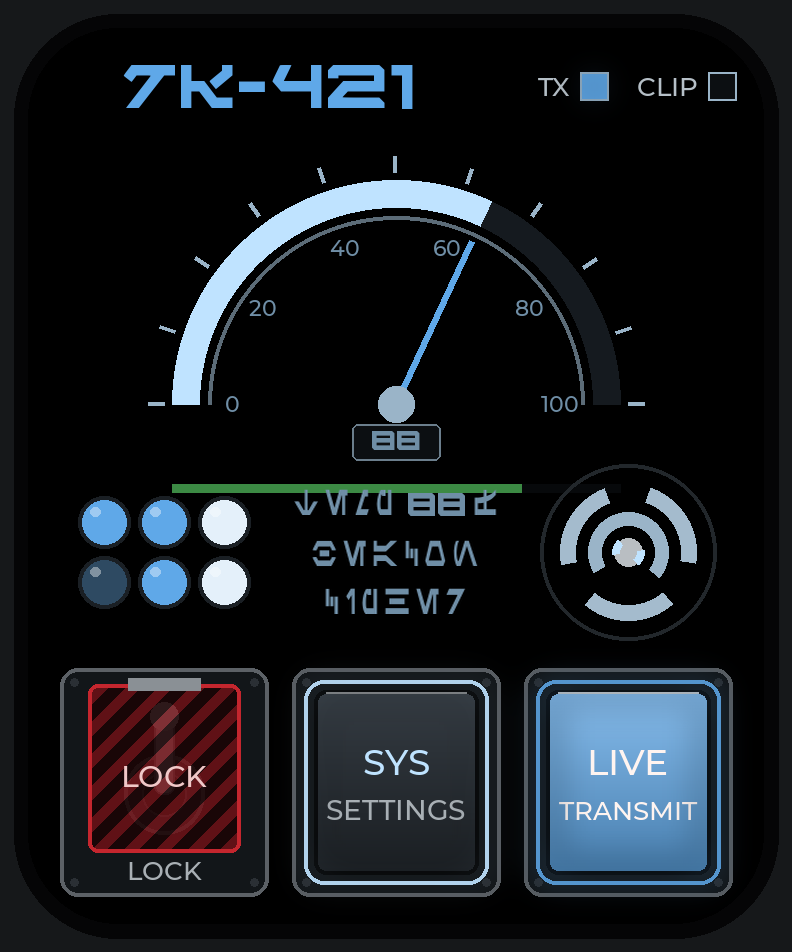
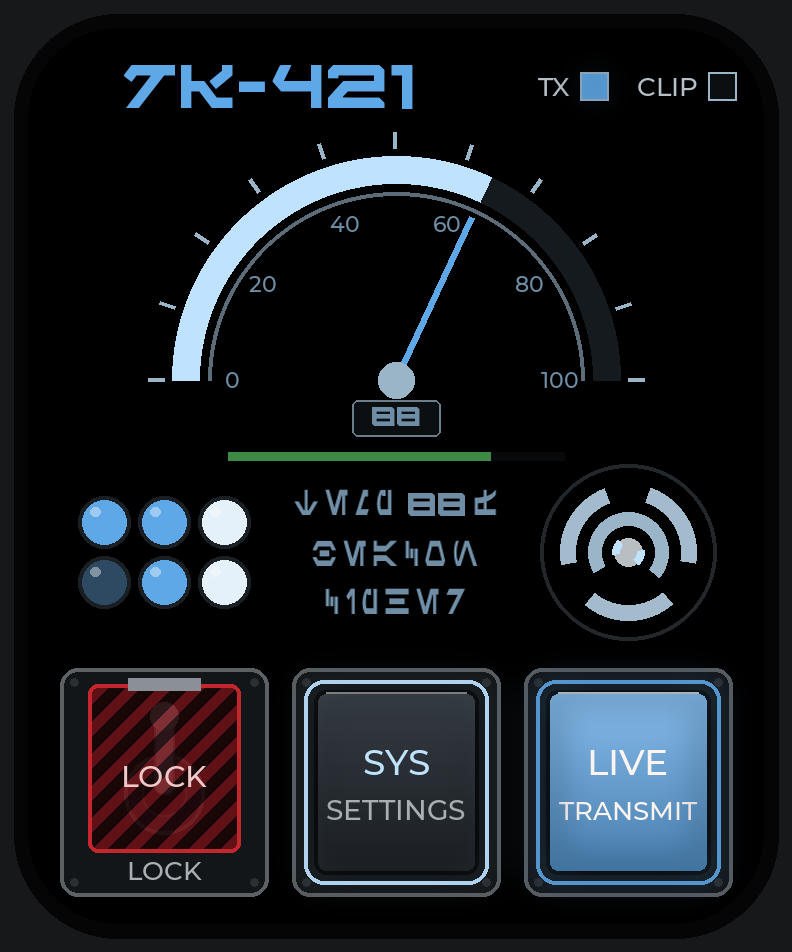
Skin concepts 22-36: give the battery bar clear space; raise Lava Forge side strips
Claude-Session: https://claude.ai/code/session_014PmTqdRFYRCH22NdKcRT7c

Changed region(s): [[0.1818, 0.1523, 0.8182, 0.5179]]

diff --git a/design/skins/concepts/make_concepts2.py b/design/skins/concepts/make_concepts2.py
@@ -193,8 +193,8 @@ def small_temp(sc, x, y, text, p, anchor="mm", size=13, font=None):
 
 # ---------------- the 15 concepts ----------------
 def c22(sc, p, t):          # Snow Patrol: big gauge hero
-    big_gauge(sc, 184, 188, 112, p, 64, plate="88")
-    mc.batt_h(sc, 72, 296, 228, h=4)
+    big_gauge(sc, 184, 176, 112, p, 64, plate="88")
+    mc.batt_h(sc, 100, 268, 212, h=4)
     mc.lamps_domes(sc, 68, 262, p, 22, cols=3, rows=2)
     mc.readout(sc, 184, 262, p, 22, lines=3, pitch=24)
     mc.rotor_scomp(sc, 300, 262, p, t, r=38)
@@ -213,7 +213,7 @@ def c23(sc, p, t):          # Desert Outpost: dual scopes + full-width segment m
 def c24(sc, p, t):          # Forest Scout: tall scope left, bar graph right
     vscope(sc, 18, 62, 110, 298, p, t, label=None)
     bargraph(sc, 132, 62, 350, 176, p, n=14, seed=24, label="88")      # temp as the graph's scale tag
-    mc.batt_v(sc, 122, 62, 298, w=4)
+    mc.batt_v(sc, 119, 62, 298, w=4)
     mc.lamps_matrix(sc, 184, 250, p, 24)
     mc.rotor_radar(sc, 300, 250, p, t, r=44)
 
@@ -227,11 +227,11 @@ def c25(sc, p, t):          # Dark Ops: waterfall
 
 
 def c26(sc, p, t):          # Lava Forge: ring meter round a big rotor, edge lamp strips
-    edge_strip(sc, 18, 64, 230, p, 26)
-    edge_strip(sc, 340, 64, 230, p, 27)
+    edge_strip(sc, 18, 60, 206, p, 26)
+    edge_strip(sc, 340, 60, 206, p, 27)
     ring_meter(sc, 184, 148, 84, p, 66, w=8)
     mc.rotor_gear(sc, 184, 148, p, t, r=66)
-    mc.batt_v(sc, 32, 64, 230, w=6)
+    mc.batt_v(sc, 36, 60, 206, w=4)
     mc.lamps_diamonds(sc, 68, 268, p, 26)
     mc.readout(sc, 184, 268, p, 26, lines=3, pitch=24)
     mc.rotor_reticle(sc, 300, 268, p, t, r=36)
@@ -249,7 +249,7 @@ def c28(sc, p, t):          # Archive: hex table hero
     mc.scope_rect(sc, (18, 62, 168, 176), p, "ticks", t)
     hex_table(sc, 186, 74, 4, 6, p, 28, temp_cell=(2, 3))               # temp in hex (58 = 88)
     m.notched_frame(sc, 176, 59, 352, 179, p["frame"])
-    mc.batt_h(sc, 18, 350, 190)
+    mc.batt_h(sc, 18, 350, 193, h=4)
     mc.lamps_matrix(sc, 68, 256, p, 28)
     bargraph(sc, 140, 218, 228, 296, p, n=8, seed=28)
     mc.rotor_scomp(sc, 300, 256, p, t, r=42)
@@ -268,11 +268,11 @@ def c29(sc, p, t):          # Sentinel: hero scomp with voice ring
 
 
 def c30(sc, p, t):          # Signal Tower: wide spectrum bar graph
-    bargraph(sc, 18, 62, 350, 184, p, n=22, seed=30)
-    small_temp(sc, 344, 195, "88", p, anchor="rm", size=11)            # temp as the last channel number
+    bargraph(sc, 18, 62, 350, 172, p, n=22, seed=30)
+    small_temp(sc, 344, 183, "88", p, anchor="rm", size=11)            # temp as the last channel number
     for i, ch in enumerate(("01", "05", "09", "13", "17")):
-        sc.text(30 + i * 68, 195, ch, f(m.MONT, 10), p["tick"], "mm")
-    mc.batt_h(sc, 18, 290, 205, h=4)
+        sc.text(30 + i * 68, 183, ch, f(m.MONT, 10), p["tick"], "mm")
+    mc.batt_h(sc, 18, 350, 194, h=4)
     mc.lamps_grid(sc, 68, 262, p, 30)
     mc.readout(sc, 184, 258, p, 30, lines=4, pitch=29)
     mc.rotor_radar(sc, 300, 262, p, t, r=44)
@@ -292,7 +292,7 @@ def c32(sc, p, t):          # Command Deck: stacked dual scope
     mc.scope_rect(sc, (18, 126, 288, 180), p, "notched", t + 13, tilt=(-10, 4))
     sc.text(282, 120, "CH 88", f(m.MONT, 10), p["tick"], "rm")         # temp as a channel tag
     mc.meter_vseg(sc, 306, 49, 178, p, 66)
-    mc.batt_v(sc, 346, 49, 178)
+    mc.batt_v(sc, 348, 49, 178, w=6)
     mc.lamps_grid(sc, 68, 250, p, 32)
     mc.readout(sc, 184, 246, p, 32, lines=4, pitch=29)
     mc.rotor_gear(sc, 300, 250, p, t, r=44)
@@ -302,7 +302,7 @@ def c33(sc, p, t):          # Interceptor Wing: round scope flanked by bar graph
     mc.scope_round(sc, 184, 136, 74, p, t)
     bargraph(sc, 18, 66, 90, 206, p, n=4, seed=33)
     bargraph(sc, 278, 66, 350, 206, p, n=4, seed=34)
-    mc.batt_h(sc, 112, 256, 218, h=4)
+    mc.batt_h(sc, 112, 256, 224, h=4)
     mc.lamps_diamonds(sc, 68, 268, p, 33)
     mc.readout(sc, 184, 266, p, 33, lines=3, pitch=24)
     mc.rotor_square(sc, 300, 268, p, t, r=36)
